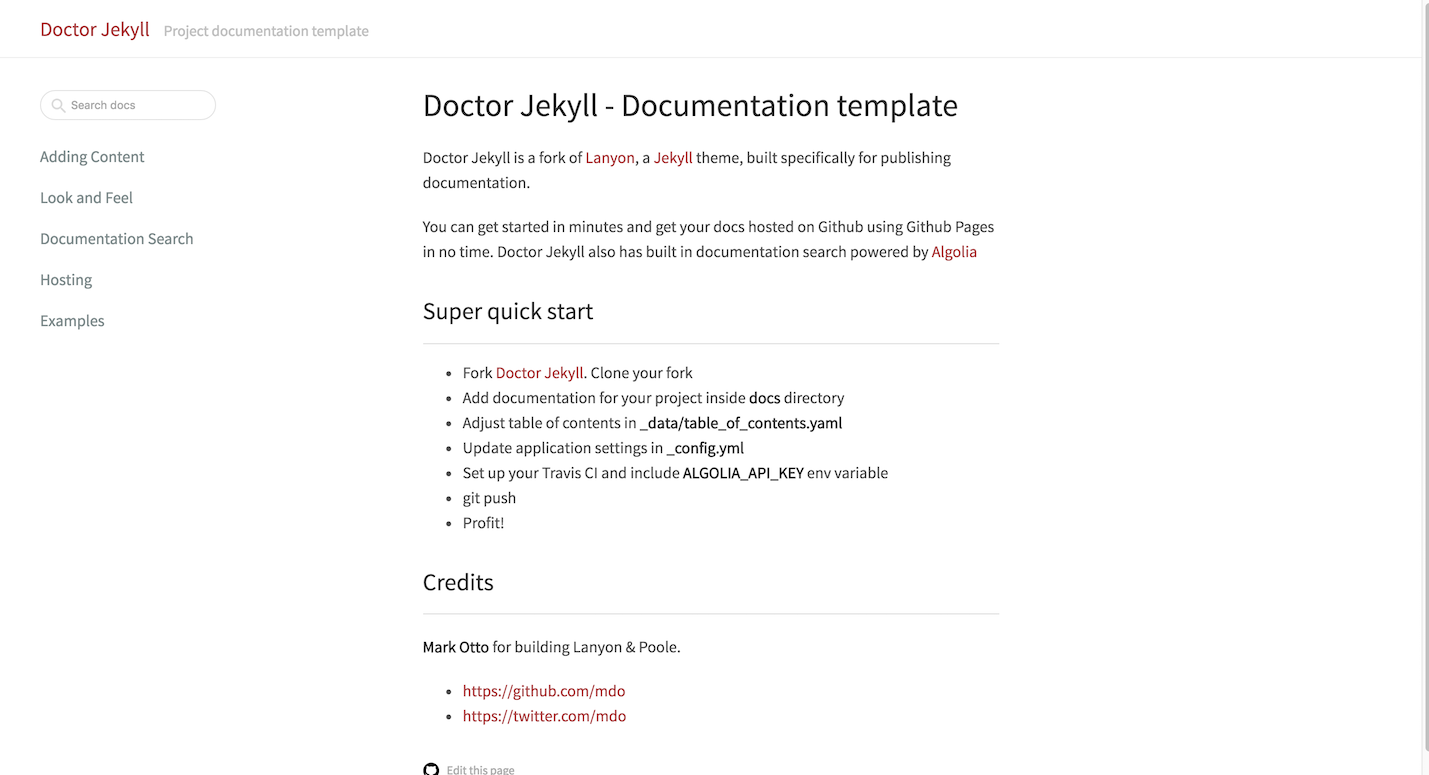
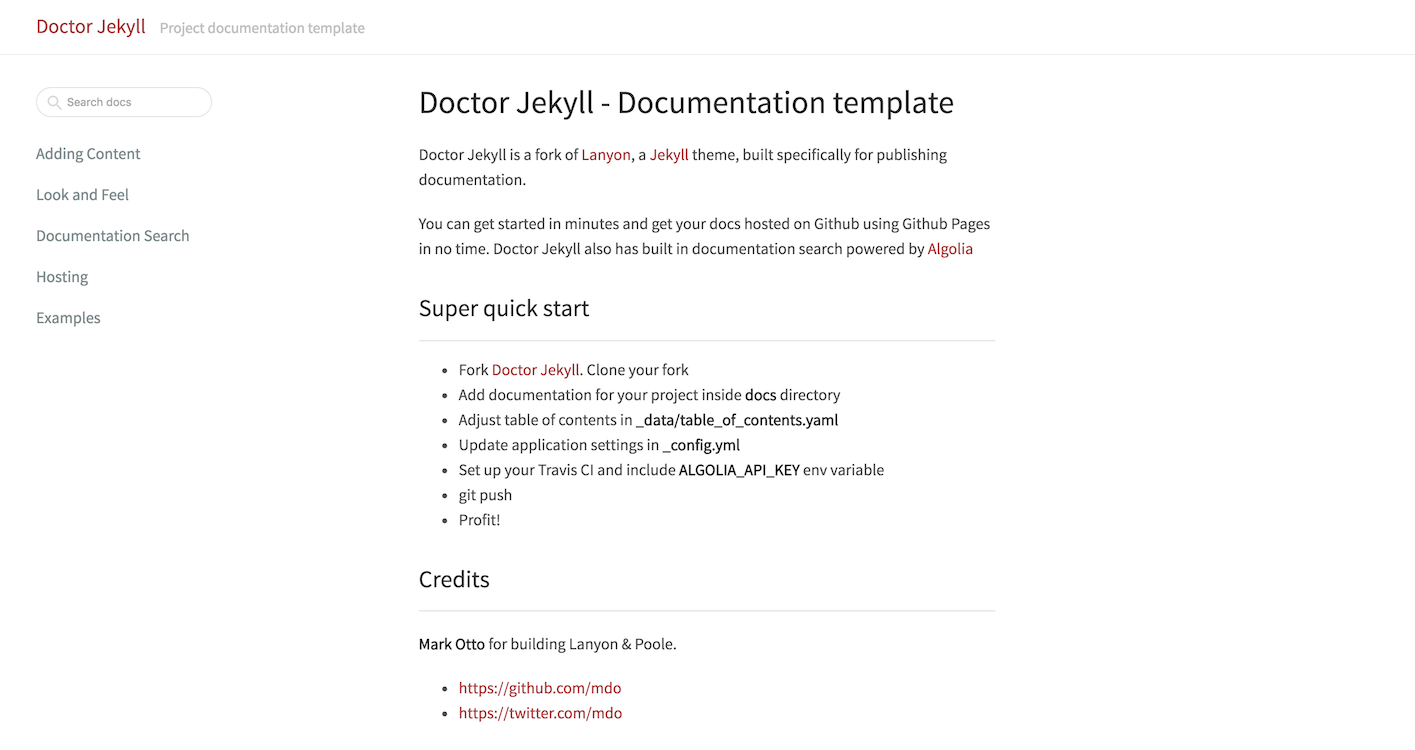
update image + landing page

diff --git a/index.md b/index.md
@@ -19,9 +19,14 @@ You can get started in minutes and get your docs hosted on Github using Github P
 - git push
 - Profit!
 
-## Credits
+## Credits + Thanks
 
-**Mark Otto** for building Lanyon & Poole.
+- [Mark Otto](https://github.com/mdo) for building [Lanyon](https://github.com/poole/lanyon) & [Poole](https://github.com/poole/poole).
+- [Algolia](http://algolia.com) for awesome search
+- [Travis](https://travis-ci.org) for awesome CI
 
-- <https://github.com/mdo>
-- <https://twitter.com/mdo>
+## License
+
+Open sourced under the [MIT license](LICENSE.md).
+
+<3
